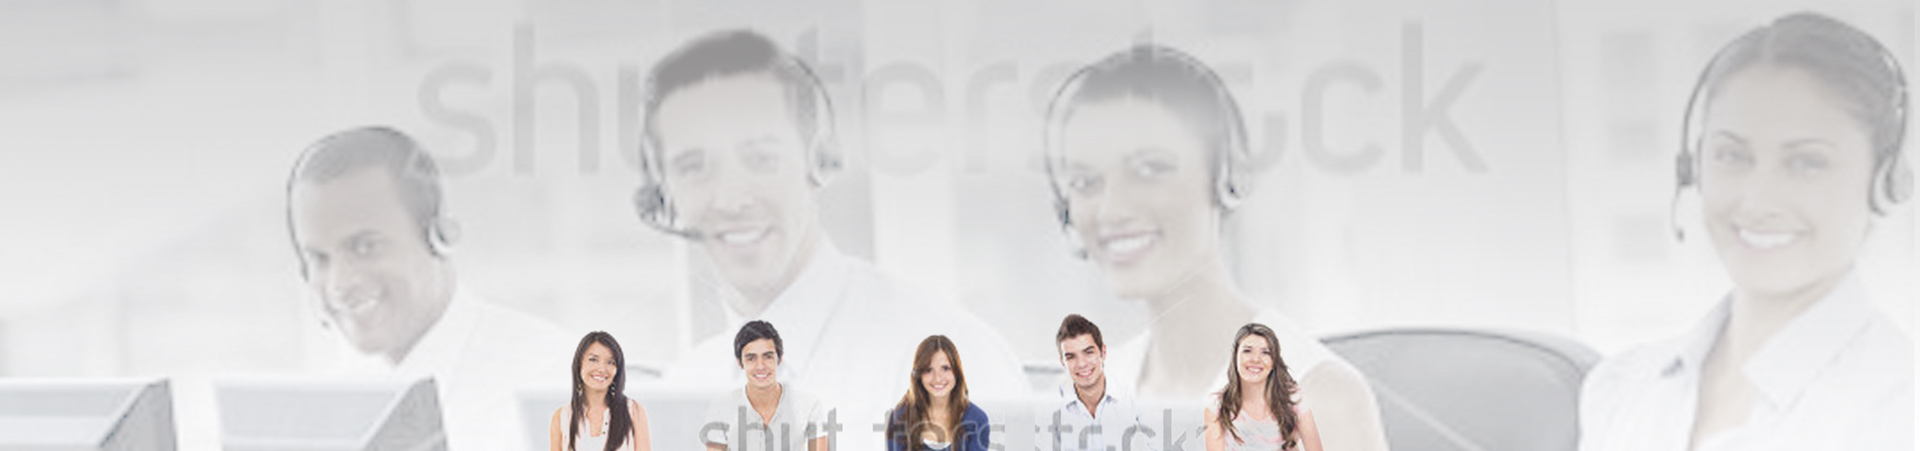
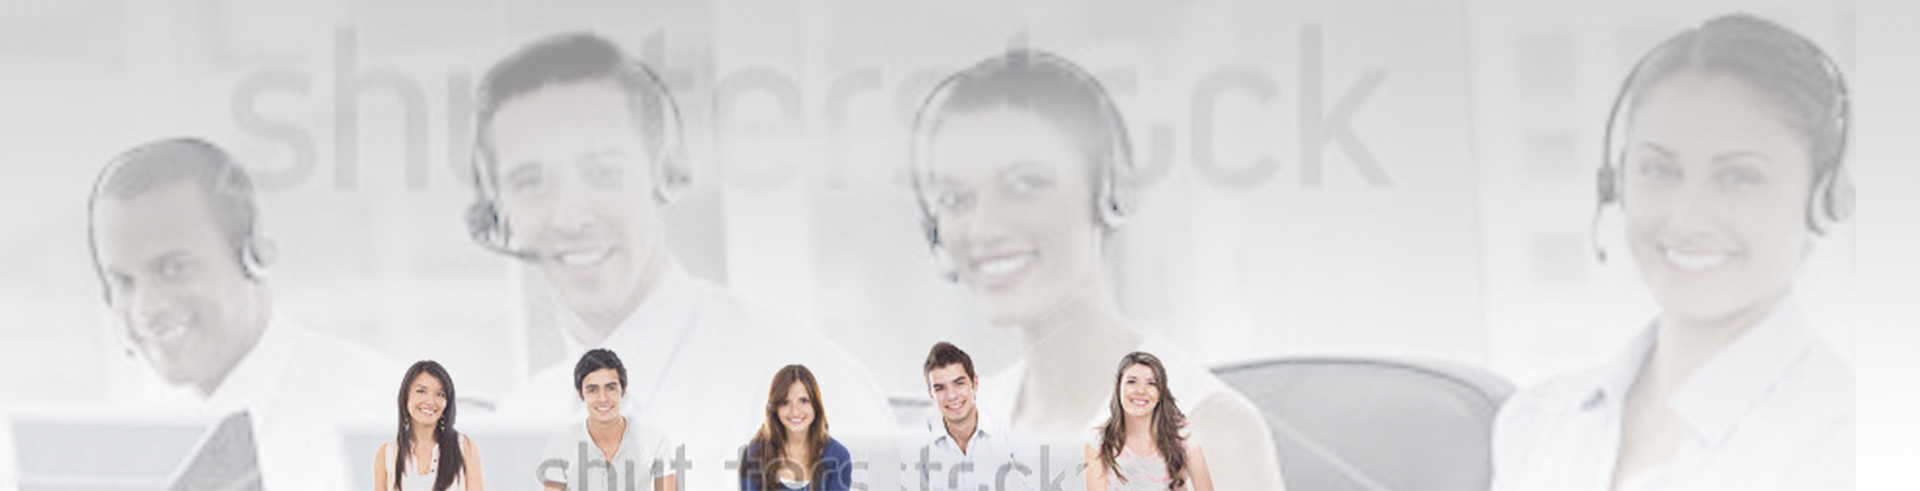
middleofmonday

diff --git a/index.html b/index.html
@@ -179,19 +179,19 @@
                                         <li class="footer-top__list_green"><i class="fas fa-question"></i></li>
                                         <li class="footer-top__list_bold">שתשובו</li>
                                         <li>לקוחוה דוגמאות</li>
-                                        <li><i class="fas fa-arrow-circle-left" class="footer-top__li-orange"></i>לקוחוה לקודוגמאות</li>
+                                        <li class="footer-top__li-orange"><i class="fas fa-arrow-circle-left"></i>לקוחוה לקודוגמאות</li>
                                     </ul>
                                     <ul class="footer-top__list_main-list_middle">
                                         <li class="footer-top__list_green"><i class="fab fa-blogger-b"></i></li>
                                         <li class="footer-top__list_bold">ווב</li>
                                         <li>ותשוותשותשוותשו</li>
-                                        <li><i class="fas fa-arrow-circle-left" class="footer-top__li-orange"></i>לקוחוהלקוחוה  דוגמאות</li>
+                                        <li class="footer-top__li-orange"><i class="fas fa-arrow-circle-left" ></i>לקוחוהלקוחוה  דוגמאות</li>
                                     </ul class="footer-top__list_main-list_right">
                                     <ul>
                                         <li class="footer-top__list_green"><i class="fas fa-comment-dots"></i></li>
                                         <li class="footer-top__list_bold">ותשוב</li>
                                         <li>לקוחוהוחוה </li>
-                                        <li><i class="fas fa-arrow-circle-left" class="footer-top__li-orange"></i>ללקוחוהקוחוה דוגמאות</li>
+                                        <li class="footer-top__li-orange"><i class="fas fa-arrow-circle-left" ></i>ללקוחוהקוחוה דוגמאות</li>
                                     </ul>
                                 </ul>
                             </div>
@@ -202,7 +202,9 @@
                         <div class="footer-dark__content-container">
                             <ul class="footer-dark__list">
                                 <ul class="footer-dark__list_left">
-                                    <li class="footer-dark__list_search_green">שירות לקוחות</li>
+                                    <div class="footer-dark__list_search_green">
+                                        <li >שירות לקוחות</li>
+                                    </div>
                                     <li>ירות </li>
                                     <li>ירות </li>
                                     <li>ירות לקו</li>
@@ -211,7 +213,9 @@
                                     <li>ירו</li>
                                 </ul>
                                 <ul class="footer-dark__list_middle">
-                                    <li class="footer-dark__list_search_green">ירות לקו</li>
+                                    <div class="footer-dark__list_search_green">
+                                        <li>ירות לקו</li>
+                                    </div>
                                     <li>ירות לקוחות</li>
                                     <li>ירות לקוחות</li>
                                     <li>ירות לקו</li>
@@ -219,23 +223,40 @@
                                     <li>ירות לקו</li>
                                 </ul>
                                 <ul class="footer-dark__list_right">
-                                    <li class="footer-dark__list_search_green">ל לקו</li>
+                                    <div class="footer-dark__list_search_green">
+                                        <li>ל לקו</li>
+                                    </div>
                                     <li>יוחת</li>
                                     <li>ירו לק</li>
                                 </ul>
                                 <ul class="footer-dark__list_search">
-                                    <li class="footer-dark__list_search_green">רות לקוח</li>
+                                    <div class="footer-dark__list_search_green">
+                                        <li>רות לקוח</li>
+                                    </div>    
                                     <li>
-                                        <ul class="footer-dark__list_search_icon-list">
-                                            <li><img src="./img/footer/footer-black-icons/google.png" alt=""></i></li>
-                                            <li><img src="./img/footer/footer-black-icons/linkedin.png" alt=""></li>
-                                            <li><img src="./img/footer/footer-black-icons/youtube.png" alt=""></i></li>
-                                            <li><img src="./img/footer/footer-black-icons/facebook.png" alt=""></li>
-                                        </ul>
+                                        <div class="footer-dark__list_search_icon-container">
+                                            <ul class="footer-dark__list_search_icon-list">
+                                                <li><img src="./img/footer/footer-black-icons/google.png" alt=""></i></li>
+                                                <li><img src="./img/footer/footer-black-icons/linkedin.png" alt=""></li>
+                                                <li><img src="./img/footer/footer-black-icons/youtube.png" alt=""></i></li>
+                                                <li><img src="./img/footer/footer-black-icons/facebook.png" alt=""></li>
+                                            </ul>
+                                        </div>
                                     </li>
-                                    <li class="footer-dark__list_green">רות לקוח</li>
+                                    <div class="footer-dark__list_search_green">
+                                        <li>רות לקוח</li>
+                                    </div>
                                     <li>שירות לקוחו</li>
-                                    <li><input type="text"></li>
+                                    <li>
+                                        <div class="footer-dark__list_input-container">
+                                            <button class="footer-dark__list_input-container-button">
+                                                לקוח
+                                             </button>
+                                    
+                                            <input class="footer-dark__list_input-container-input" type="text"  onfocus="this.value=''" value="רות לקוחו">
+                                        </div>    
+                                    </li>
+                                    <li>שירות לקוחו</li> 
                                 </ul>
                             </ul>
                         </div>    
@@ -247,13 +268,15 @@
 
                     <div class="footer-white">
                         <div class="footer-white__content-container">
-                            <ul class="footer-white__img-list">
-                                <li><img src="./img/footer/pay.png" alt=""></li>
-                                <li><img src="./img/footer/rapid-ssl.png" alt=""></li>
-                                <li><img src="./img/footer/psi.png" alt=""></li>
-                                <li><img src="./img/footer/registrars.png" alt=""></li>
-                            </ul>
-                            <p>© כל הזכויות שמורות 2015</p>
+                            
+                                <ul class="footer-white__img-list">
+                                    <li class="pay"><img src="./img/footer/pay.png" alt=""></li>
+                                    <li class="rapid-ssl"><img src="./img/footer/rapid-ssl.png" alt=""></li>
+                                    <li class="psi"><img src="./img/footer/psi.png" alt=""></li>
+                                    <li class="registrars"><img src="./img/footer/registrars.png" alt=""></li>
+                                </ul>
+                            
+                            <p class="footer-white__content-continer_copyright">© כל הזכויות שמורות 2015</p>
                         </div>
                     </div>
                 </div>

diff --git a/css/style.css b/css/style.css
@@ -17,6 +17,10 @@ a {
     color:white;
 }
 
+input, button { 
+    border:none;
+ } 
+
 /* .wrapper{
        
 }
@@ -47,7 +51,7 @@ header{
 }
 
 .menu-top__list{
-    width: 960px;
+    max-width: 960px;
     margin:0 auto;  
 }
 
@@ -215,6 +219,7 @@ header{
     text-align: left;
     font-weight: bold;
     color: orange;
+    direction: ltr;
 }
   /* ======================Main banner right ======================== */
 
@@ -246,12 +251,14 @@ header{
 }
 
 .user-sites__header h2{
-    margin:10px 0 40px 0;
-    font-size:25pt;
+    margin:10px 0 30px 0;
+    font-size:24pt;
 }
+
 
 .user-sites__header h3{
     font-weight:lighter;
+    font-size:12pt;
 }
 
 /* ---------------------------Setka saitesov------------------------ */
@@ -291,7 +298,8 @@ header{
 .footer-top{
     height: 450px;
     background-image: url("../img/footer-image.jpg");
-    background-size: cover;
+    background-size: 100%;
+    background-repeat: no-repeat;
 }
 
 .footer-top__content-container{
@@ -315,12 +323,14 @@ header{
 
 .footer-top__list ul{
     display: inline-block;
-    margin:0 60px 0 30px;
+    
 }
+
 
 .footer-top__list li{
     list-style-type:none;
     text-align: center;
+    width:300px;
 }
 
 .footer-top__list_green{
@@ -339,8 +349,9 @@ header{
     font-weight:bold;
 }
 
-.footer-top__list i{
+.footer-top__li-orange i{
     color:orange;
+    margin-right: 5px;
 }
 
 
@@ -353,36 +364,67 @@ header{
 
 .footer-dark__content-container{
     width: 960px;
-    margin:0 auto;    
+    margin:0 auto;   
 }
 
 .footer-dark__list{
+    
     padding-top: 90px;
 }
 
 .footer-dark__list ul{
     display: inline-block;
+    margin-top: 0px;
     margin-right:90px;
     
 }
 
-.footer-dark__list_search_green{
+
+.footer-dark__list ul li{
+    text-align: right;
+    list-style: none;
+    margin-bottom: 10px;
+}
+
+.footer-dark__list_search_green li{
     font-size:16pt;
     font-weight:bold;
     color:#68ae00;
 }
 
-.footer-dark__list ul li{
-    text-align: right;
-    list-style: none;
+.footer-dark__list_left{
     font-size: 12pt;
     color:white;
+}
+
+.footer-dark__list_middle{
+    font-size: 12pt;
+    color:white;
+}
+
+.footer-dark__list_right{
+    font-size: 12pt;
+    color:white;
+}
+
+.footer-dark__list_search{
+    font-size: 12pt;
+    color:white;
+}
+
+.footer-dark__list_search ul{
+    margin:0;
 }
 
 
 
 .footer-dark__list_search_icon-list{
+    display: inline-block;
     
+}
+
+.footer-dark__list_search_icon-list :last-child{
+    margin-right:0;
 }
 
 
@@ -393,10 +435,34 @@ header{
     margin-right: 20px;
 }
 
-.footer-dark__list_search_icon-list li img{
-    
-    
+
+
+.footer-dark__list_input-container{
+    width: 339px;
+    height:40px;
+    background-color: #ebebeb;
 }
+
+.footer-dark__list_input-container-button{
+    width: 75px;
+    height:40px;
+    background-color:#68ae00;
+    color: #ebebeb;
+    font-size: 12pt;
+    font-weight: bold;
+}
+
+
+.footer-dark__list_input-container-input{
+    width: 260px;
+    height:39px;
+    background-color:#ebebeb;
+    text-align: right;
+    color: #43464a;
+    font-size:12pt;
+}
+
+
 
 /* footer-green */
 
@@ -427,17 +493,40 @@ header{
 .footer-white__content-container{
     width: 960px;
     margin:0 auto; 
+    
 }
 
 .footer-white__img-list{
-    padding-top:30px;
+    
     margin-bottom:50px;
+    padding: 30px 50px 0 50px;
+    
 }
 
 .footer-white__img-list li{
     display: inline-block;
+    
 }
 
+.pay{
+    margin-right:60px;
+}
+
+.rapid-ssl{
+    margin-right:30px;
+}
+
+.psi{
+    margin-right:58px;
+}
+
+
+.footer-white__content-continer_copyright{
+    font-size:10pt;
+    text-align: center;
+    margin-bottom: 30px;
+   
+}
 
 
 
